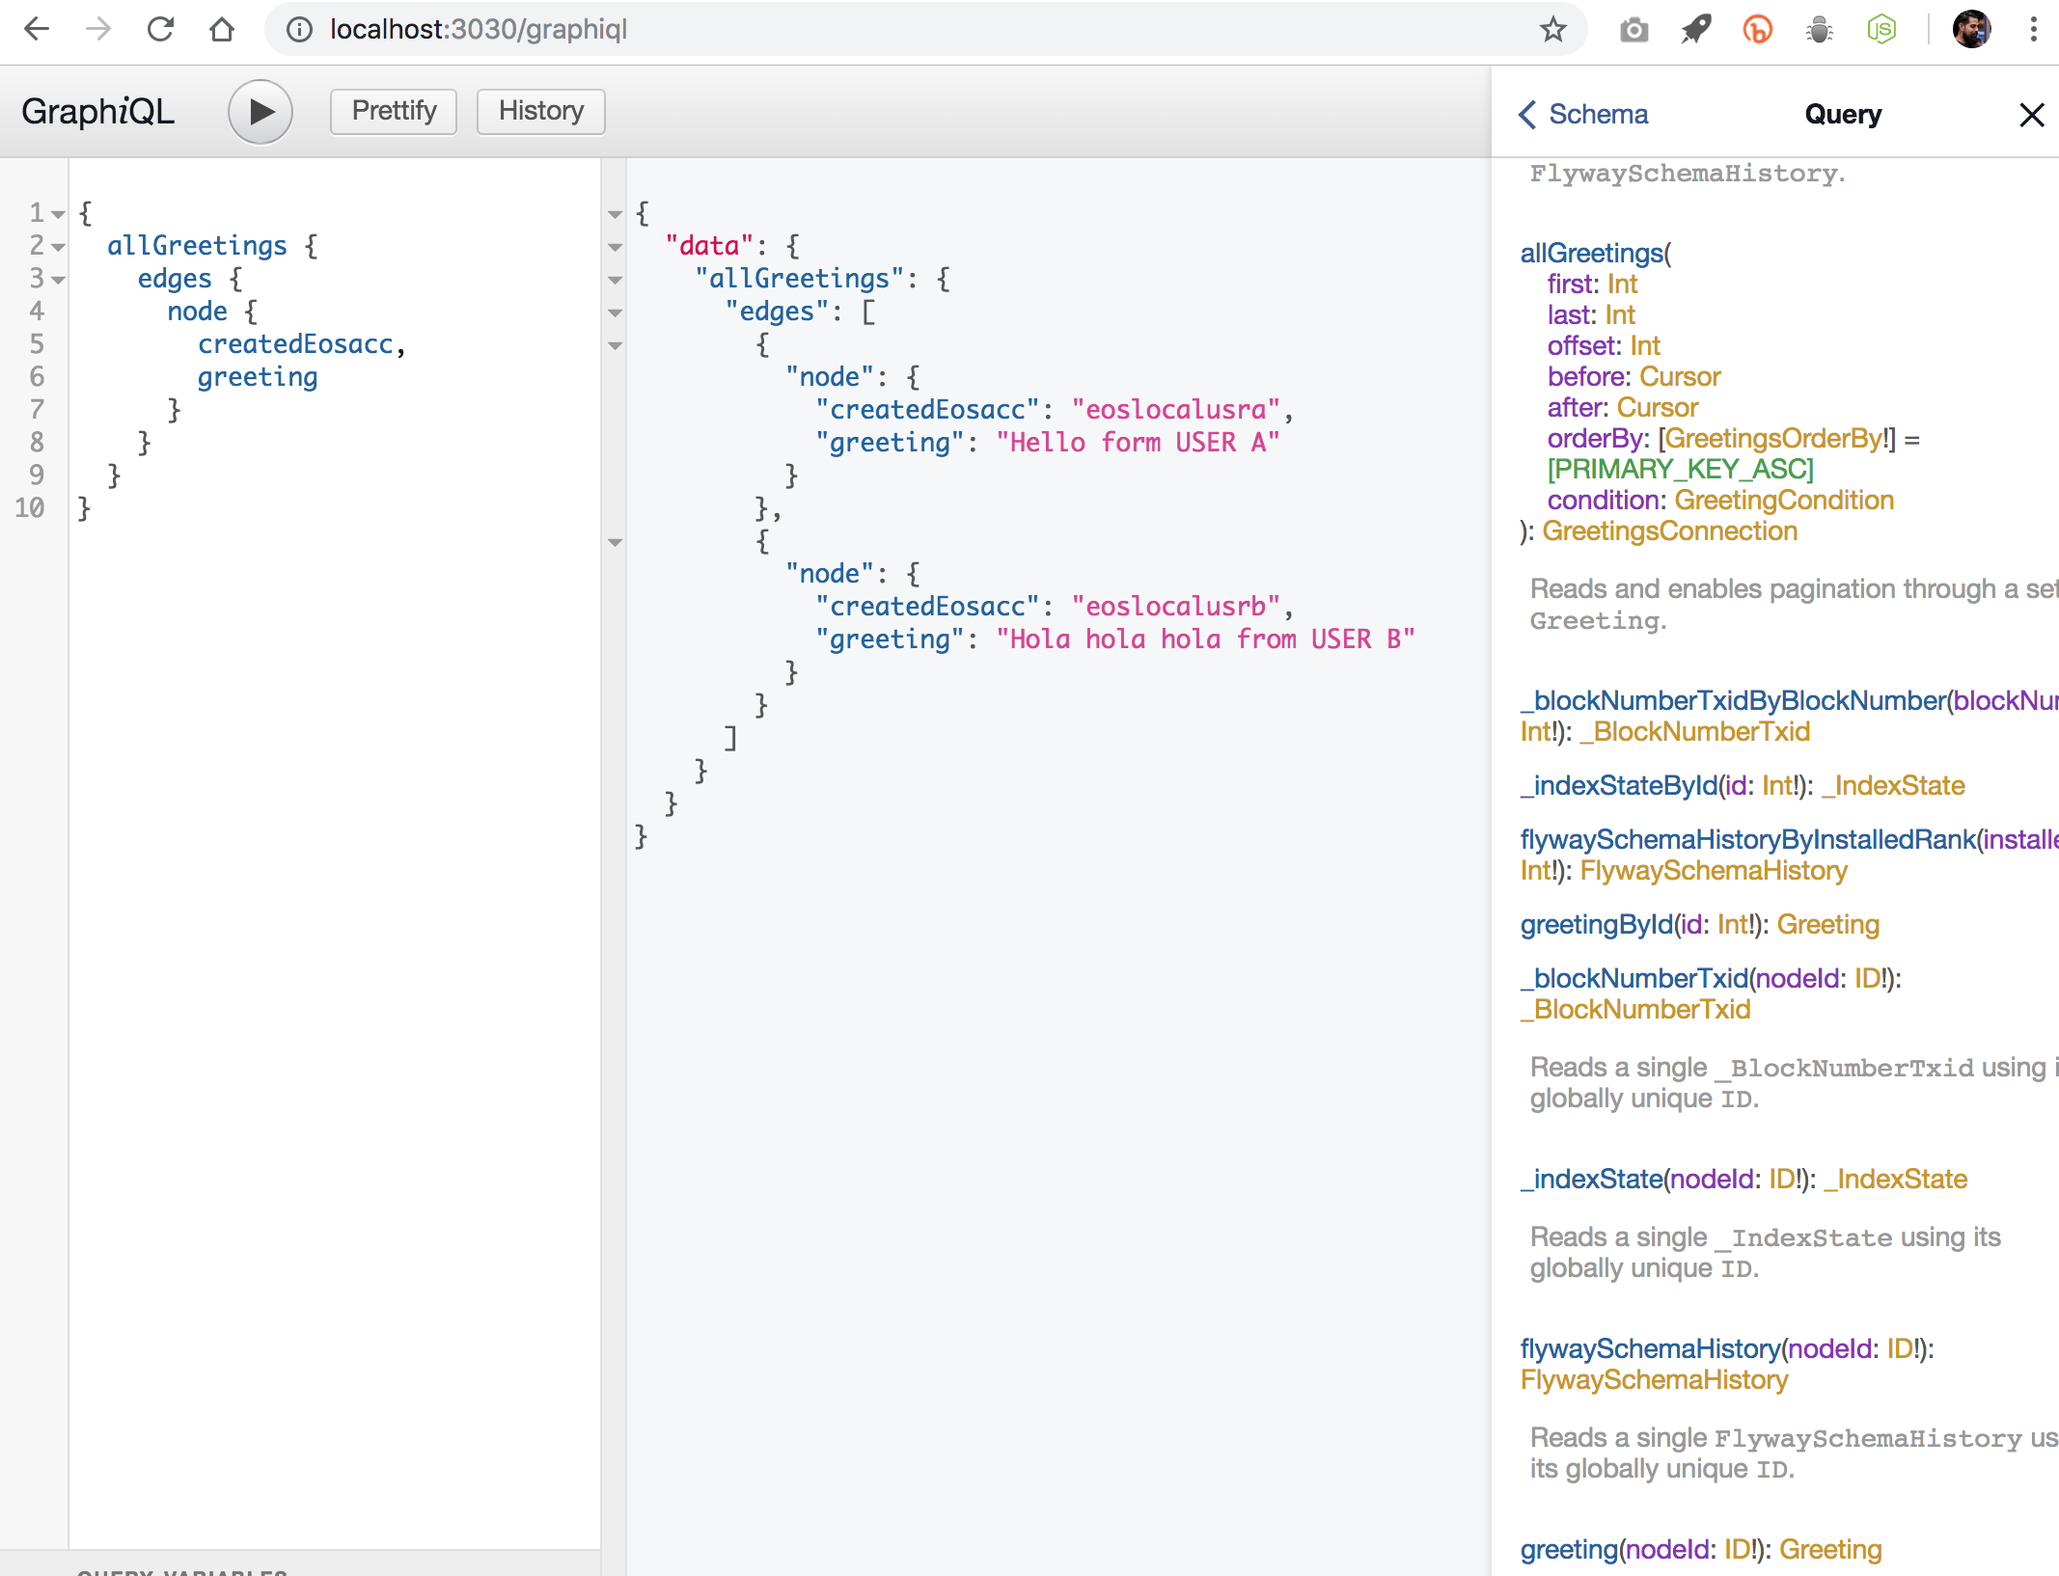
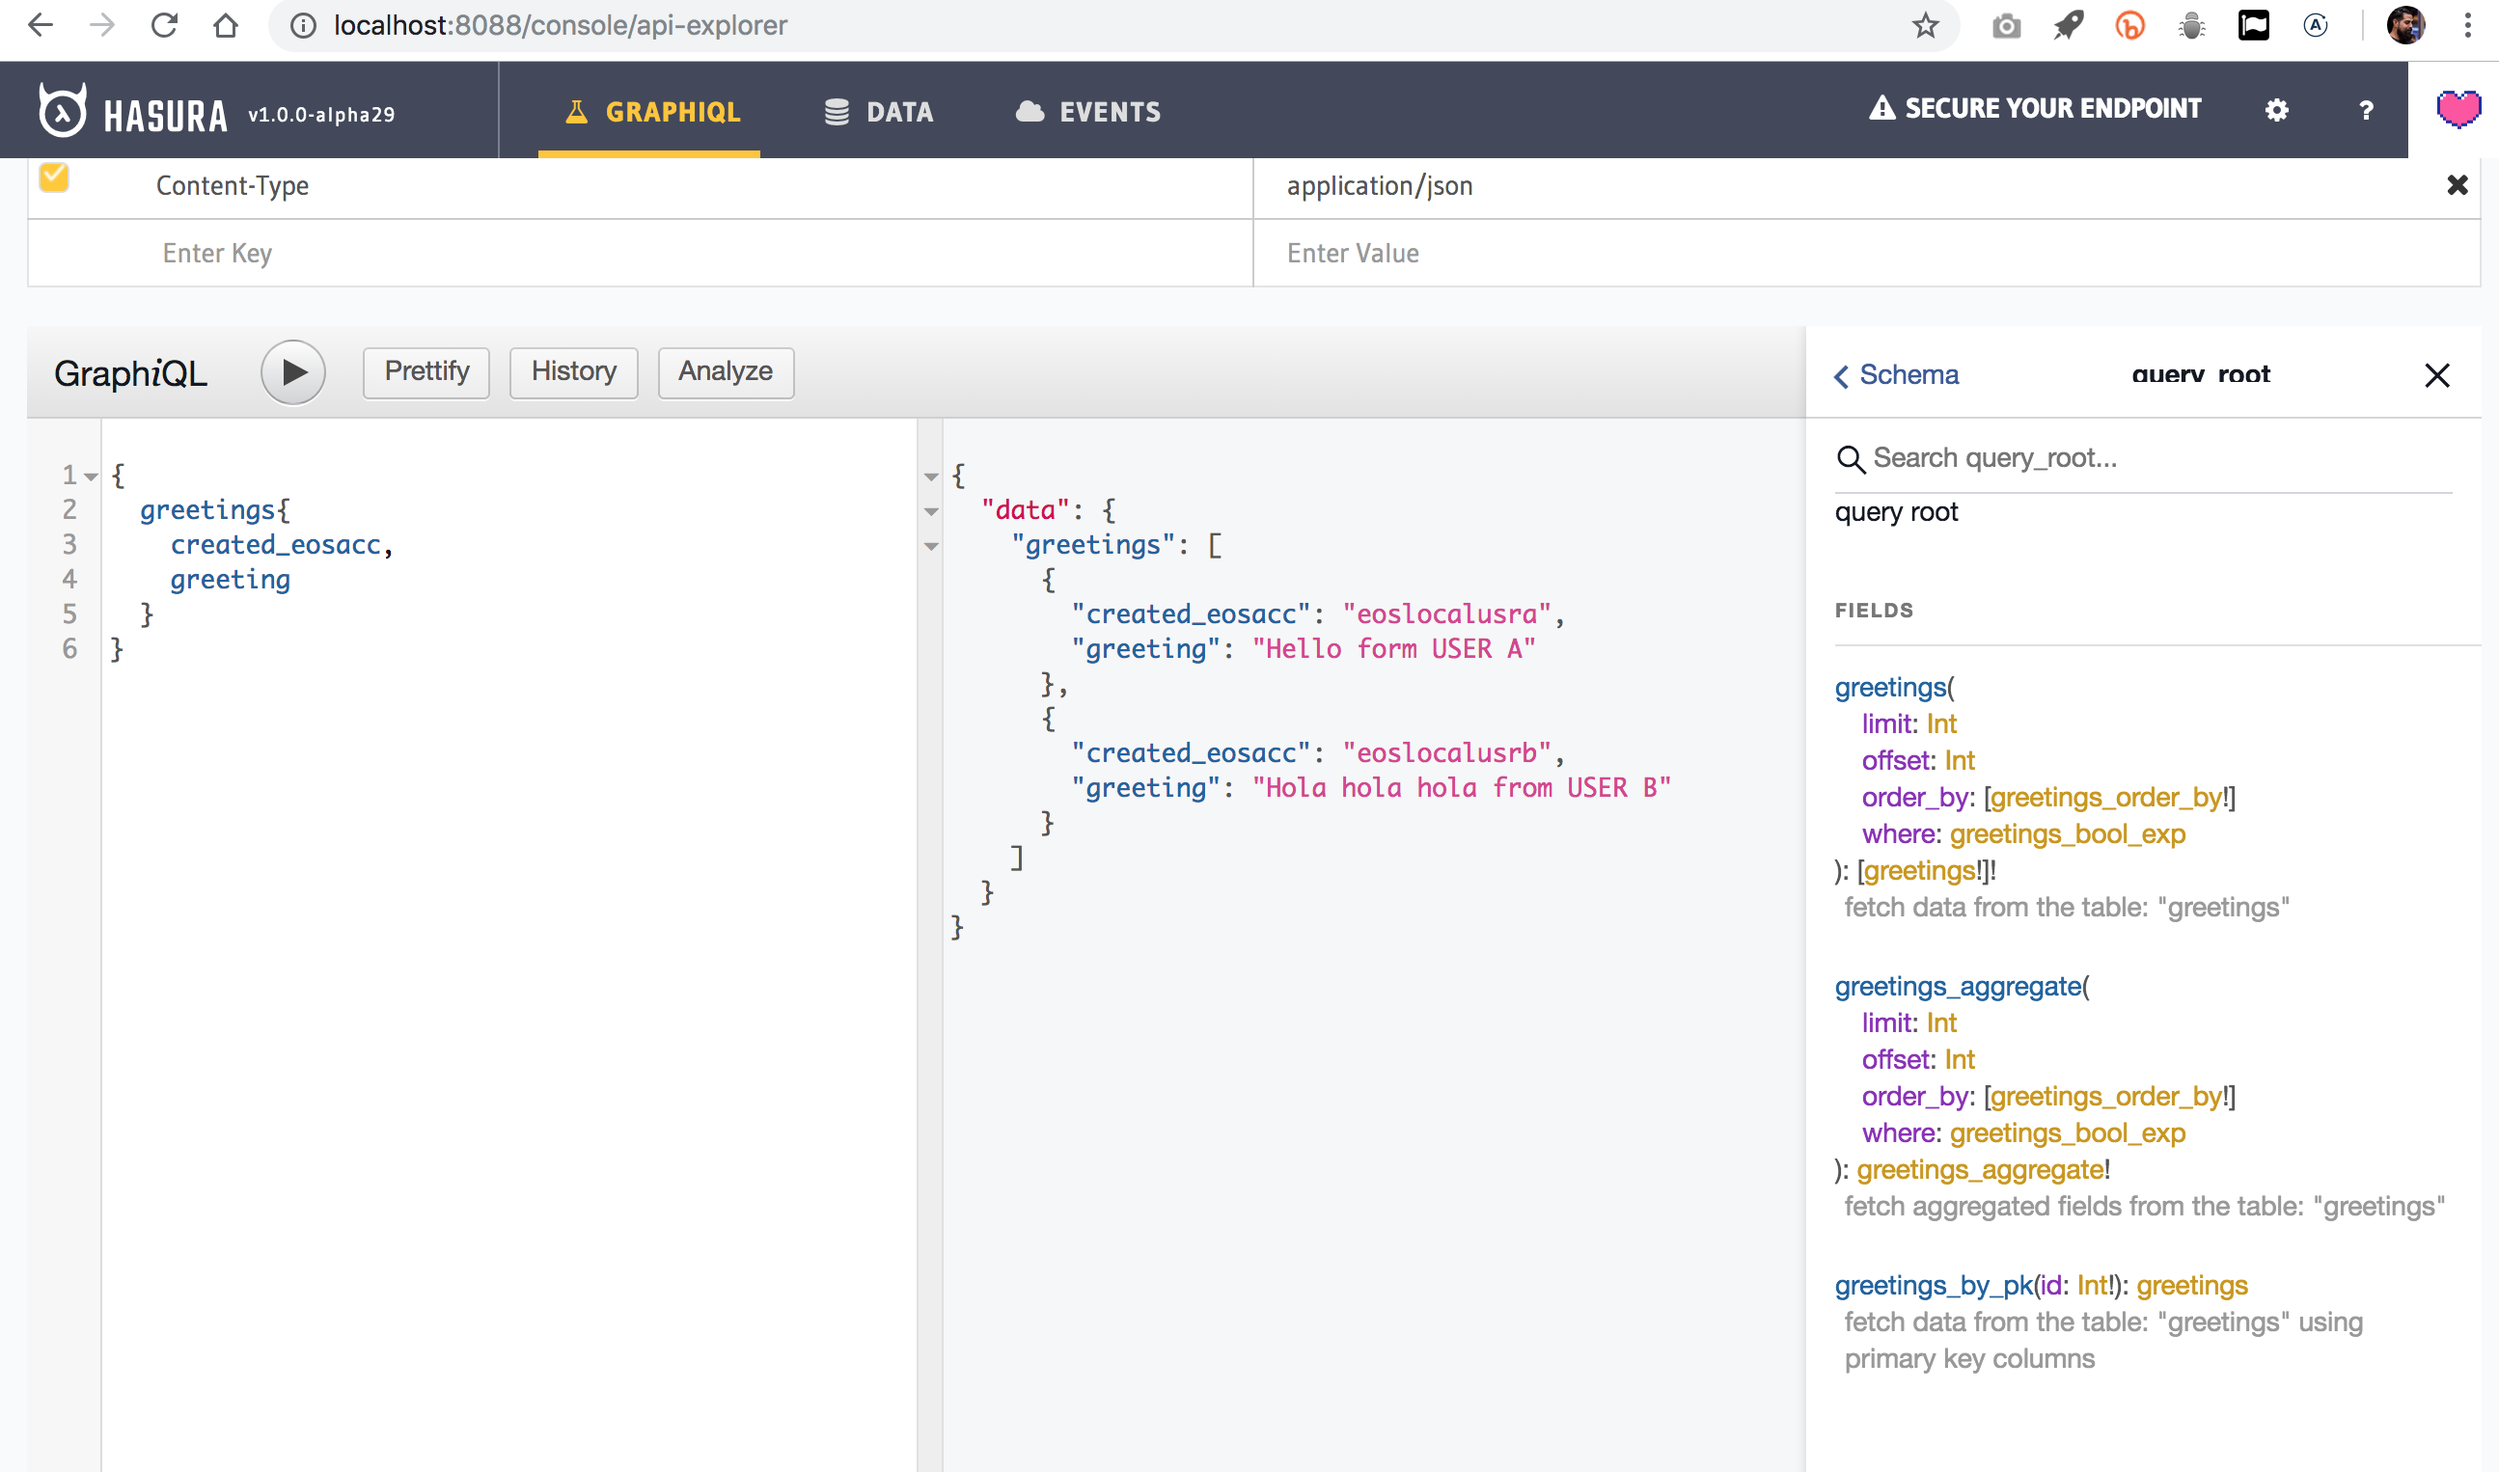
feat(graphql): manage graphql with hasura

diff --git a/services/frontend/src/components/Home.js b/services/frontend/src/components/Home.js
@@ -35,17 +35,12 @@ const Home = ({
           {
             ({ data }) => {
               // need to validate more
-              if (data.allGreetings) {
-                const { edges = [] } = data.allGreetings
-
-                return edges.map(({ node }, index) => {
-                  const { greeting } = node
-
+              if (data.greetings) {
+                return data.greetings.map((g, index) => {
                   return <CommentBox key={index}
-                    title={greeting}
-                    body='here goes the body'
-                    city='New York'
-                    hour='3H'
+                    title={g.created_eosacc}
+                    body={g.greeting}
+                    hour={g.created_at}
                   />
                 })
               } else {

diff --git a/services/demux/pm2.config.js b/services/demux/pm2.config.js
@@ -10,19 +10,6 @@ module.exports = {
       ignore_watch: ["node_modules", "./src/services"],
     },
     {
-      name: "postgraphile",
-      exec_interpreter: "ts-node",
-      script: "./src/services/postgraphile.ts",
-      restart_delay: 5000,
-      min_uptime: "20s",
-      max_restarts: 5,
-      ignore_watch: ["node_modules"],
-      watch_options: {
-        usePolling: true,
-        interval: 1000,
-      },
-    },
-    {
       name: "data-cleaner",
       exec_interpreter: "ts-node",
       script: "./src/services/data-cleaner.ts",

diff --git a/services/frontend/src/graphql/queries/get-greetings.js b/services/frontend/src/graphql/queries/get-greetings.js
@@ -2,13 +2,10 @@ import gql from 'graphql-tag'
 
 export const getGreetingsQuery = gql`
 {
-  allGreetings {
-    edges {
-      node {
-        createdEosacc,
-        greeting
-      }
-    }
+  greetings{
+    created_eosacc,
+    greeting,
+    created_at
   }
 }
 `

diff --git a/readme.md b/readme.md
@@ -192,8 +192,11 @@ See [services/eos-dev/scripts/0000_init_chain.sh](https://github.com/eoscostaric
 |   |   ├── Dockerfile ................................. service image spec 
 |   |   └── start.sh ................................... service startup script
 |   |
-|   ├── postgres/ ...................................... postgres db related files
+|   ├── postgres/ ...................................... postgres db service
 |   |   └── migrations/ ................................ flyway migrations
+|   |
+|   ├── hasura/ ........................................ graphql endpoint service
+|   |   └── migrations/ ................................ hasura migrations
 |   |
 |   └── frontend/ ...................................... reactjs frontend
 |       ├── public/ .................................... static and public files
@@ -206,6 +209,7 @@ See [services/eos-dev/scripts/0000_init_chain.sh](https://github.com/eoscostaric
 ├── docker-compose.yaml ................................ docker compose for local dev
 ├── contributing.md .................................... contributing guidelines
 ├── license ............................................ project license
+├── makefile ........................................... make tasks manifest
 ├── readme.md .......................................... project documentation
 ├── netlify.toml ....................................... netlify config file
 ├── .travis.yml ........................................ travis ci config file
@@ -262,7 +266,7 @@ __Move faster with powerful developer tools__
 
 Know exactly what data you can request from your API without leaving your editor, highlight potential issues before sending a query, and take advantage of improved code intelligence. GraphQL makes it easy to build powerful tools like [GraphiQL](https://github.com/graphql/graphiql) by leveraging your API’s type system.
 
-The GraphiQL instance on EOS Local is available at http://localhost:3030/graphiql
+The GraphiQL instance on EOS Local is available at http://localhost:8088/console/api-explorer
 
 <p align="center">
 	<img src="docs/graphiql.png" width="600">
@@ -270,13 +274,16 @@ The GraphiQL instance on EOS Local is available at http://localhost:3030/graphiq
 
 Learn more at https://graphql.org & https://www.howtographql.com
 
-#### PostGraphile 
+#### hasura 
 
-PostGraphile is an open-source tool to help you rapidly design and serve a high-performance, secure, client-facing GraphQL API backed primarily by your PostgreSQL database. Delight your customers with incredible performance whilst maintaining full control over your data and your database. Use our powerful plugin system to customise every facet of your GraphQL API to your liking.
+Hasura GraphQL engine automatically generates your GraphQL schema and resolvers based on your tables/views in Postgres. You don’t need to write a GraphQL schema or resolvers.
 
-This is what EOS Local uses to provide the GraphQL endpoint.
+The Hasura console gives you UI tools that speed up your data-modeling process, or working with your existing database. The console also automatically generates migrations or metadata files that you can edit directly and check into your version control.
 
-Learn more at https://www.graphile.org/postgraphile
+Hasura GraphQL engine lets you do anything you would usually do with Postgres by giving you GraphQL over native Postgres constructs.
+
+Learn more at https://hasura.io
+
 
 ### eosio-cdt (Contract Development Toolkit)
 
